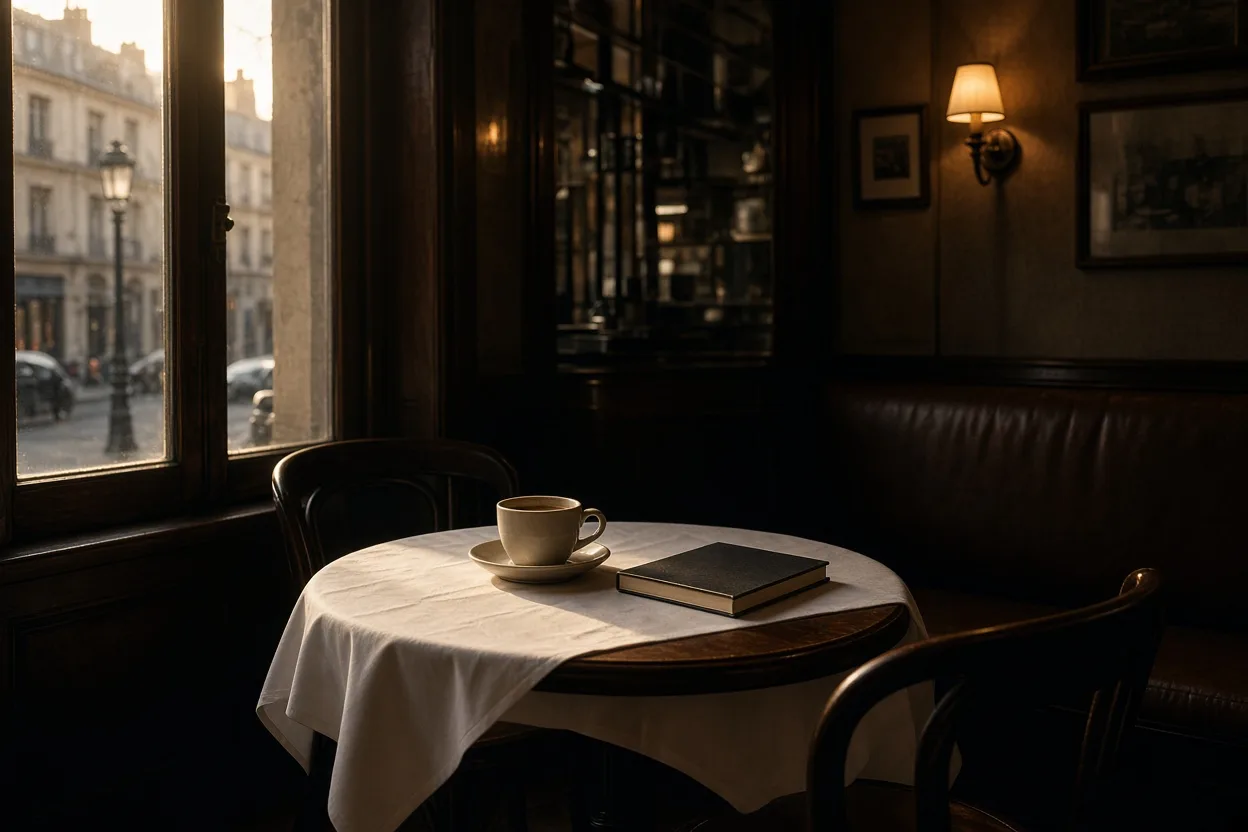
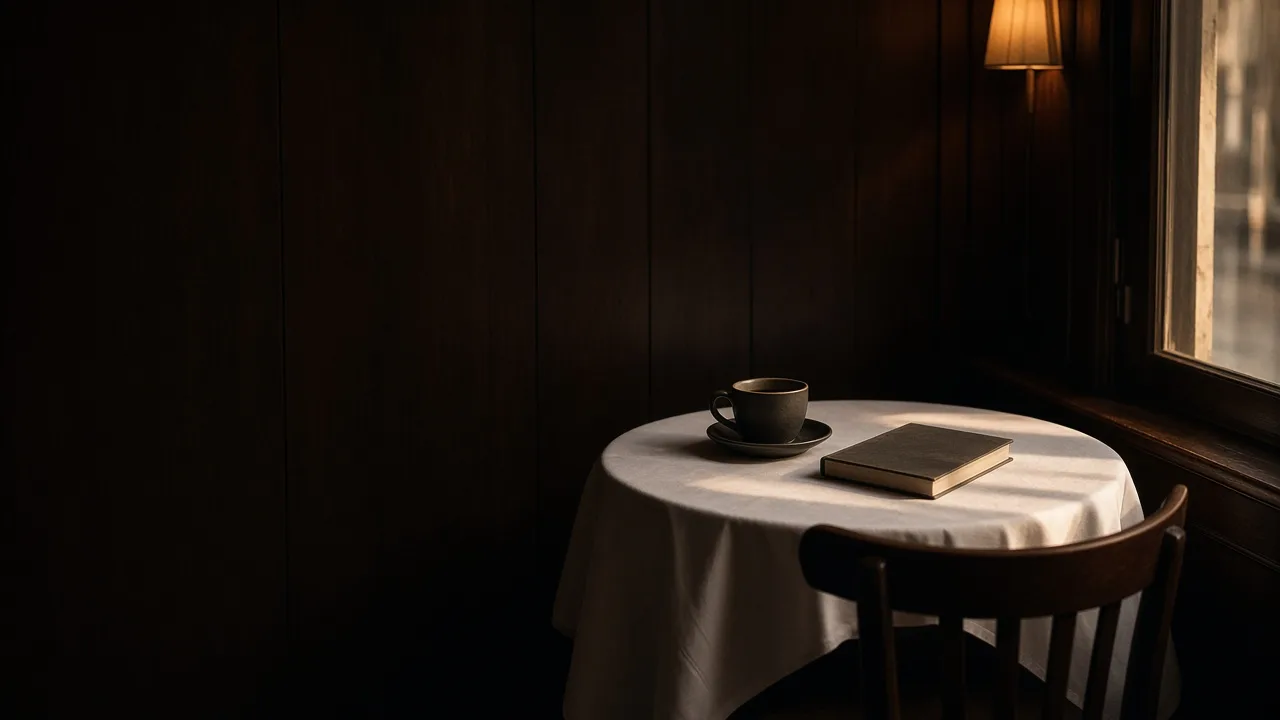
kohaku-brasserie: hero photos with calm left half, CSS fixes, nav current marker

diff --git a/themes/kohaku-brasserie/style.css b/themes/kohaku-brasserie/style.css
@@ -19,6 +19,7 @@ Tags: full-site-editing, block-patterns, wide-blocks, custom-colors
 	--kb-ease: cubic-bezier(.19, 1, .22, 1);
 	--kb-gutter: 40px;
 	--kb-gap: 160px;
+	--kb-pin: min(100svh, 1100px);
 	--kb-stone: var(--wp--preset--color--stone);
 	--kb-stone-light: var(--wp--preset--color--stone-light);
 	--kb-paper: var(--wp--preset--color--paper);
@@ -95,27 +96,27 @@ p:last-child { margin-bottom: 0; }
 .kb-hero { position: relative; height: 100svh; min-height: 640px; max-height: 980px; margin: 0; background: var(--kb-espresso); color: var(--kb-paper); }
 .kb-hero__bg { position: absolute; inset: 0; margin: 0; }
 .kb-hero__slide { position: absolute; inset: 0; margin: 0; }
-.kb-hero__slide img { width: 100%; height: 100%; object-fit: cover; object-position: 40% 50%; }
-.kb-hero__slide--2, .kb-hero__slide--3 { opacity: 0; }
+.kb-hero__slide img { margin-left: 12%; width: 88%; -webkit-mask-image: linear-gradient(90deg, transparent 0, #000 22%); mask-image: linear-gradient(90deg, transparent 0, #000 22%); height: 100%; object-fit: cover; object-position: 60% 50%; }
+.kb-hero__slide--2, .kb-hero__slide--3 { opacity: 0; visibility: hidden; }
 .kb-hero__shade { position: absolute; inset: 0; pointer-events: none; background: linear-gradient(180deg, rgba(29, 25, 21, .62) 0%, rgba(29, 25, 21, 0) 34%), linear-gradient(0deg, rgba(29, 25, 21, .55) 0%, rgba(29, 25, 21, 0) 40%); }
 .kb-hero__copy { position: absolute; left: 120px; right: var(--kb-gutter); bottom: 150px; z-index: 2; }
 .kb-hero__h1 { margin: 0 0 1.25rem; font-size: var(--wp--preset--font-size--display); font-weight: 300; line-height: 1.02; letter-spacing: -.03em; color: var(--kb-paper); }
-.kb-hero__sub { margin: 0; max-width: 34rem; font-size: 1.0625rem; line-height: 1.7; color: rgba(246, 243, 236, .9); }
+.kb-hero__sub { margin: 0; max-width: 23rem; font-size: 1.0625rem; line-height: 1.7; color: rgba(246, 243, 236, .9); }
 .kb-hero__count { position: absolute; left: -80px; bottom: 100px; display: flex; flex-direction: column; align-items: center; gap: 12px; }
 .kb-hero__counttext, .kb-hero__cuetext { margin: 0; font-size: var(--wp--preset--font-size--label); line-height: 1; letter-spacing: .06em; writing-mode: vertical-rl; transform: rotate(180deg); white-space: nowrap; }
-.kb-hero__bar { margin: 0; width: 2px; height: 50px; max-width: none; border: 0; background: var(--kb-paper); }
+.kb-hero .kb-hero__bar.wp-block-separator { margin: 0; width: 2px; height: 50px; max-width: none; border: 0; background: var(--kb-paper); }
 .kb-hero__cue { position: absolute; left: var(--kb-gutter); bottom: 84px; z-index: 2; display: flex; flex-direction: column; align-items: center; gap: 12px; }
-.kb-hero__cueline { margin: 0; width: 1px; height: 50px; max-width: none; border: 0; background: rgba(246, 243, 236, .8); }
+.kb-hero .kb-hero__cueline.wp-block-separator { margin: 0; width: 1px; height: 50px; max-width: none; border: 0; background: rgba(246, 243, 236, .8); }
 .kb-hero__line { position: absolute; left: var(--kb-gutter); right: var(--kb-gutter); bottom: 56px; z-index: 2; height: 1px; background: rgba(246, 243, 236, .7); }
 .kb-stamp { position: absolute; bottom: 14px; margin: 0; font-size: var(--wp--preset--font-size--label); line-height: 1; letter-spacing: .02em; white-space: nowrap; transform: translateX(-50%); }
 .kb-stamp--1 { left: 12%; } .kb-stamp--2 { left: 50%; } .kb-stamp--3 { left: 88%; }
-.kb-stamp__w { opacity: .8; margin-left: .35em; }
+.kb-stamp__w { color: rgba(246, 243, 236, .8); margin-left: .35em; }
 .kb-hero__disc { position: absolute; top: -4px; left: 88%; width: 9px; height: 9px; margin-left: -4.5px; border-radius: 50%; background: var(--kb-amber); }
 @media (max-width: 1023px) {
 	.kb-hero__copy { left: var(--kb-gutter); bottom: 100px; }
 	.kb-hero__count { position: static; flex-direction: row; gap: 14px; margin-bottom: 1.25rem; }
 	.kb-hero__counttext { writing-mode: horizontal-tb; transform: none; }
-	.kb-hero__bar { width: 50px; height: 2px; }
+	.kb-hero .kb-hero__bar.wp-block-separator { width: 50px; height: 2px; }
 	.kb-hero__cue { display: none; }
 	.kb-hero__line { bottom: 40px; }
 	.kb-hero__sub { font-size: 1rem; }
@@ -131,8 +132,8 @@ p:last-child { margin-bottom: 0; }
 	html:not(.sp-no-motion) .kb-hero__disc { animation: kb-disc 21.6s linear infinite; }
 }
 @keyframes kb-zoom { from { transform: scale(1); } to { transform: scale(1.04); } }
-@keyframes kb-fade2 { 0%, 27.8% { opacity: 0; } 33.3%, 94.4% { opacity: 1; } 100% { opacity: 0; } }
-@keyframes kb-fade3 { 0%, 61.1% { opacity: 0; } 66.7%, 94.4% { opacity: 1; } 100% { opacity: 0; } }
+@keyframes kb-fade2 { 0%, 27.8% { opacity: 0; visibility: hidden; } 33.3%, 94.4% { opacity: 1; visibility: visible; } 100% { opacity: 0; visibility: hidden; } }
+@keyframes kb-fade3 { 0%, 61.1% { opacity: 0; visibility: hidden; } 66.7%, 94.4% { opacity: 1; visibility: visible; } 100% { opacity: 0; visibility: hidden; } }
 @keyframes kb-disc {
 	0%, 27.8% { left: 88%; animation-timing-function: cubic-bezier(.19, 1, .22, 1); }
 	31.5%, 61.1% { left: 12%; animation-timing-function: cubic-bezier(.19, 1, .22, 1); }
@@ -141,10 +142,10 @@ p:last-child { margin-bottom: 0; }
 }
 
 /* ---------- night band ---------- */
-.kb-night { position: relative; background: var(--kb-espresso); color: var(--kb-paper); padding: var(--kb-gap) 0; }
-.kb-night__bg { position: sticky; top: 0; z-index: 0; height: 100svh; margin: calc(var(--kb-gap) * -1) 0 calc(100svh * -1); }
+.kb-night { position: relative; background: var(--kb-espresso); color: var(--kb-paper); padding: 0; }
+.kb-night__bg { position: sticky; top: 0; z-index: 0; height: var(--kb-pin); margin: 0 0 calc(var(--kb-pin) * -1); }
 .kb-night__bg img { width: 100%; height: 100%; object-fit: cover; opacity: .38; }
-.kb-night__in { position: relative; z-index: 1; width: 40%; min-width: 22rem; margin-left: 120px; padding-top: 0; }
+.kb-night__in { position: relative; z-index: 1; width: 40%; min-width: 22rem; margin-left: 120px; padding: var(--kb-gap) 0; }
 .kb-night__word { margin: 0 0 2.5rem; font-size: var(--wp--preset--font-size--display-xl); font-weight: 300; line-height: 1; letter-spacing: -.05em; color: var(--kb-paper); }
 .kb-night__text p { font-size: 1.0625rem; line-height: 1.85; color: rgba(246, 243, 236, .92); margin-bottom: 1.6em; }
 @media (max-width: 1023px) { .kb-night__in { width: auto; margin: 0 var(--kb-gutter); min-width: 0; } }
@@ -157,7 +158,7 @@ p:last-child { margin-bottom: 0; }
 .kb-ellipse__rim { left: calc(-25% + 28px); width: calc(150% - 56px); top: calc(-10% + 28px); bottom: calc(25.5vw - 80px + 28px); border: 1px solid rgba(122, 106, 86, .35); }
 .kb-ellipse__in { position: relative; z-index: 1; max-width: 52rem; margin: 0 auto; padding: 4rem var(--kb-gutter) 0; text-align: center; }
 .kb-ellipse__in .kb-label { margin-bottom: 2rem; }
-.kb-ellipse__h { margin: 0 0 2.25rem; font-size: var(--wp--preset--font-size--h2); font-weight: 300; line-height: 1.15; letter-spacing: -.02em; }
+.kb-ellipse__h { margin: 0 0 2.25rem; font-size: var(--wp--preset--font-size--title); font-weight: 300; line-height: 1.15; letter-spacing: -.02em; }
 .kb-ellipse__p { max-width: 34rem; margin: 0 auto; }
 .kb-ellipse__pw { position: relative; z-index: 2; width: 34%; margin: 3rem 0 0 58%; }
 .kb-ellipse__photo img { width: 100%; aspect-ratio: 4 / 3; object-fit: cover; }
@@ -171,7 +172,7 @@ p:last-child { margin-bottom: 0; }
 /* ---------- T2 pinned letterbox day ---------- */
 .kb-day { background: var(--kb-stone); }
 .kb-day__head { padding: 0 var(--kb-gutter); margin: 0 auto 4rem; max-width: 1440px; }
-.kb-day__h { margin: 0; font-size: var(--wp--preset--font-size--h2); font-weight: 300; letter-spacing: -.02em; }
+.kb-day__h { margin: 0; font-size: var(--wp--preset--font-size--title); font-weight: 300; letter-spacing: -.02em; }
 .kb-day__stack { position: relative; padding: 0 var(--kb-gutter); max-width: 1440px; margin: 0 auto; }
 .kb-fig { position: sticky; top: 88px; z-index: 2; aspect-ratio: 2.4 / 1; max-height: 52svh; width: 100%; background: var(--kb-espresso); overflow: hidden; }
 .kb-fig__img { margin: 0; height: 100%; }
@@ -206,10 +207,10 @@ p:last-child { margin-bottom: 0; }
 /* ---------- menus ledger ---------- */
 .kb-menus { background: var(--kb-stone); padding-left: var(--kb-gutter); padding-right: var(--kb-gutter); }
 .kb-menus__head { display: grid; grid-template-columns: 1fr 50%; gap: 4rem; align-items: end; max-width: 1360px; margin: 0 auto 5rem; }
-.kb-menus__h { margin: 0 0 1.5rem; font-size: var(--wp--preset--font-size--h2); font-weight: 300; letter-spacing: -.02em; }
+.kb-menus__h { margin: 0 0 1.5rem; font-size: var(--wp--preset--font-size--title); font-weight: 300; letter-spacing: -.02em; }
 .kb-menus__intro p:last-child { max-width: 28rem; }
 .kb-menus__photo img { width: 100%; aspect-ratio: 2 / 1; object-fit: cover; }
-.kb-ledger { max-width: 1200px; margin: 0 auto 0 max(0px, calc((100% - 1360px) / 2)); }
+.kb-ledger { max-width: 1360px; margin: 0 auto; }
 .kb-ledger table { width: 100%; border-collapse: collapse; border: 0; table-layout: auto; }
 .kb-ledger td { border: 0; border-top: 1px solid var(--kb-hair); padding: 1.6rem 0; vertical-align: baseline; }
 .kb-ledger tr:last-child td { border-bottom: 1px solid var(--kb-hair); }
@@ -234,7 +235,7 @@ p:last-child { margin-bottom: 0; }
 /* ---------- notes ledger (T4) ---------- */
 .kb-notes { background: var(--kb-paper); padding-left: var(--kb-gutter); padding-right: var(--kb-gutter); }
 .kb-notes__head { max-width: 1360px; margin: 0 auto 3.5rem; }
-.kb-notes__h { margin: 0 0 1rem; font-size: var(--wp--preset--font-size--h2); font-weight: 300; letter-spacing: -.02em; }
+.kb-notes__h { margin: 0 0 1rem; font-size: var(--wp--preset--font-size--title); font-weight: 300; letter-spacing: -.02em; }
 .kb-notes__lead { margin: 0; color: var(--kb-clove-text); }
 .kb-notes__list { max-width: 1360px; margin: 0 auto; border-bottom: 1px solid var(--kb-hair); }
 .kb-row { display: grid; grid-template-columns: 12rem minmax(0, 1fr) 8rem; gap: 2rem; align-items: baseline; padding: 1.5rem 0; border-top: 1px solid var(--kb-hair); }
@@ -259,14 +260,18 @@ p:last-child { margin-bottom: 0; }
 .kb-book-band__link a { text-decoration-line: underline; text-decoration-color: var(--kb-amber); text-decoration-thickness: 2px; text-underline-offset: .22em; }
 @media (max-width: 781px) { .kb-book-band__cols { grid-template-columns: 1fr; gap: 2.5rem; margin-top: 2.5rem; } .kb-book-band__frame { aspect-ratio: 2 / 1; } }
 
+/* paragraph rhythm inside columns (block gap is 0) */
+.kb-book-band__col p + p, .kb-pm__text > p + p, .kb-menus__intro p + p, .kb-foot__col p + p { margin-top: 1.1em; }
+.kb-foot__form { font-size: var(--wp--preset--font-size--small); }
+
 /* ---------- footer ---------- */
 .kb-foot { margin: 0; padding: 6rem var(--kb-gutter) 2rem; background: var(--kb-espresso); color: var(--kb-paper); border-top: 1px solid var(--kb-hair-dark); --sp-form-surface: #2A241E; --sp-form-text: #F6F3EC; --sp-form-border: rgba(246, 243, 236, .4); --sp-form-accent: #F6F3EC; --sp-form-on-accent: #1D1915; --sp-form-focus: #B98A45; --sp-form-error: #FFB4A6; }
 .kb-foot a { color: var(--kb-paper); text-decoration: none; }
 .kb-foot a:hover { text-decoration: underline; }
 .kb-foot__grid { display: grid; grid-template-columns: 1.1fr 1fr 1.5fr 1.7fr; gap: 3rem; max-width: 1440px; margin: 0 auto; }
-.kb-foot__name { margin: 0 0 .75rem; font-family: var(--wp--preset--font-family--display); font-weight: 400; font-size: 2rem; line-height: 1; }
-.kb-foot__tag, .kb-foot__note { font-size: var(--wp--preset--font-size--small); line-height: 1.7; color: rgba(246, 243, 236, .8); }
-.kb-foot__lab { margin: 0 0 1.25rem; font-size: var(--wp--preset--font-size--label); color: rgba(246, 243, 236, .72); }
+.kb-foot .kb-foot__name { margin: 0 0 .75rem; font-family: var(--wp--preset--font-family--display); font-weight: 400; font-size: 2rem; line-height: 1; }
+.kb-foot .kb-foot__tag, .kb-foot .kb-foot__note { font-size: var(--wp--preset--font-size--small); line-height: 1.7; color: rgba(246, 243, 236, .8); }
+.kb-foot .kb-foot__lab { margin: 0 0 1.25rem; font-size: var(--wp--preset--font-size--label); color: rgba(246, 243, 236, .72); }
 .kb-foot__links, .kb-foot__col > p { font-size: var(--wp--preset--font-size--small); line-height: 2; }
 .kb-foot__form { margin-top: 1.25rem; }
 .kb-foot__base { max-width: 1440px; margin: 4rem auto 0; padding-top: 1.5rem; border-top: 1px solid var(--kb-hair-dark); }
@@ -276,14 +281,14 @@ p:last-child { margin-bottom: 0; }
 
 /* ---------- archive / single ---------- */
 .kb-main--solid { background: var(--kb-stone); }
-.kb-arch__title { margin: 0 0 3rem; font-size: var(--wp--preset--font-size--h2); font-weight: 300; letter-spacing: -.02em; }
+.kb-arch__title { margin: 0 0 3rem; font-size: var(--wp--preset--font-size--title); font-weight: 300; letter-spacing: -.02em; }
 .kb-ledger-list { list-style: none; margin: 0; padding: 0; border-bottom: 1px solid var(--kb-hair); }
 .kb-pager { margin-top: 2.5rem; gap: 1.5rem; }
 .kb-single__img { margin: 0 0 2rem; }
 .kb-single__img img { width: 100%; aspect-ratio: 2.4 / 1; object-fit: cover; }
 .kb-single__meta { display: flex; gap: 1.5rem; margin-bottom: 1rem; font-size: var(--wp--preset--font-size--small); color: var(--kb-clove-text); }
 .kb-single__meta > * { margin: 0; }
-.kb-single__title { margin: 0 0 2rem; font-size: var(--wp--preset--font-size--h2); font-weight: 300; letter-spacing: -.02em; }
+.kb-single__title { margin: 0 0 2rem; font-size: var(--wp--preset--font-size--title); font-weight: 300; letter-spacing: -.02em; }
 .kb-prose { max-width: 42rem; }
 .kb-single__tags { margin-top: 2.5rem; font-size: var(--wp--preset--font-size--small); color: var(--kb-clove-text); }
 .kb-single__tags a { text-decoration: none; }

diff --git a/themes/kohaku-brasserie/functions.php b/themes/kohaku-brasserie/functions.php
@@ -54,3 +54,26 @@ function kohaku_brasserie_pattern_categories() {
 	);
 }
 add_action( 'init', 'kohaku_brasserie_pattern_categories' );
+
+/**
+ * Marks the navigation link that points at the current page (aria-current + current-menu-item), so the dot under the
+ * current item shows for the custom links the demo menu uses.
+ *
+ * @param string $content Rendered block.
+ * @param array  $block   Parsed block.
+ * @return string
+ */
+function kohaku_brasserie_nav_current( $content, $block ) {
+	$url = isset( $block['attrs']['url'] ) ? (string) $block['attrs']['url'] : '';
+	if ( '' === $url || false !== strpos( $content, 'aria-current' ) ) {
+		return $content;
+	}
+	$link = trailingslashit( (string) wp_parse_url( $url, PHP_URL_PATH ) );
+	$cur  = isset( $_SERVER['REQUEST_URI'] ) ? trailingslashit( (string) wp_parse_url( esc_url_raw( wp_unslash( $_SERVER['REQUEST_URI'] ) ), PHP_URL_PATH ) ) : '';
+	if ( '' === $cur || $link !== $cur ) {
+		return $content;
+	}
+	$content = preg_replace( '/class="wp-block-navigation-item /', 'class="wp-block-navigation-item current-menu-item ', $content, 1 );
+	return preg_replace( '/<a class="wp-block-navigation-item__content"/', '<a class="wp-block-navigation-item__content" aria-current="page"', $content, 1 );
+}
+add_filter( 'render_block_core/navigation-link', 'kohaku_brasserie_nav_current', 10, 2 );
